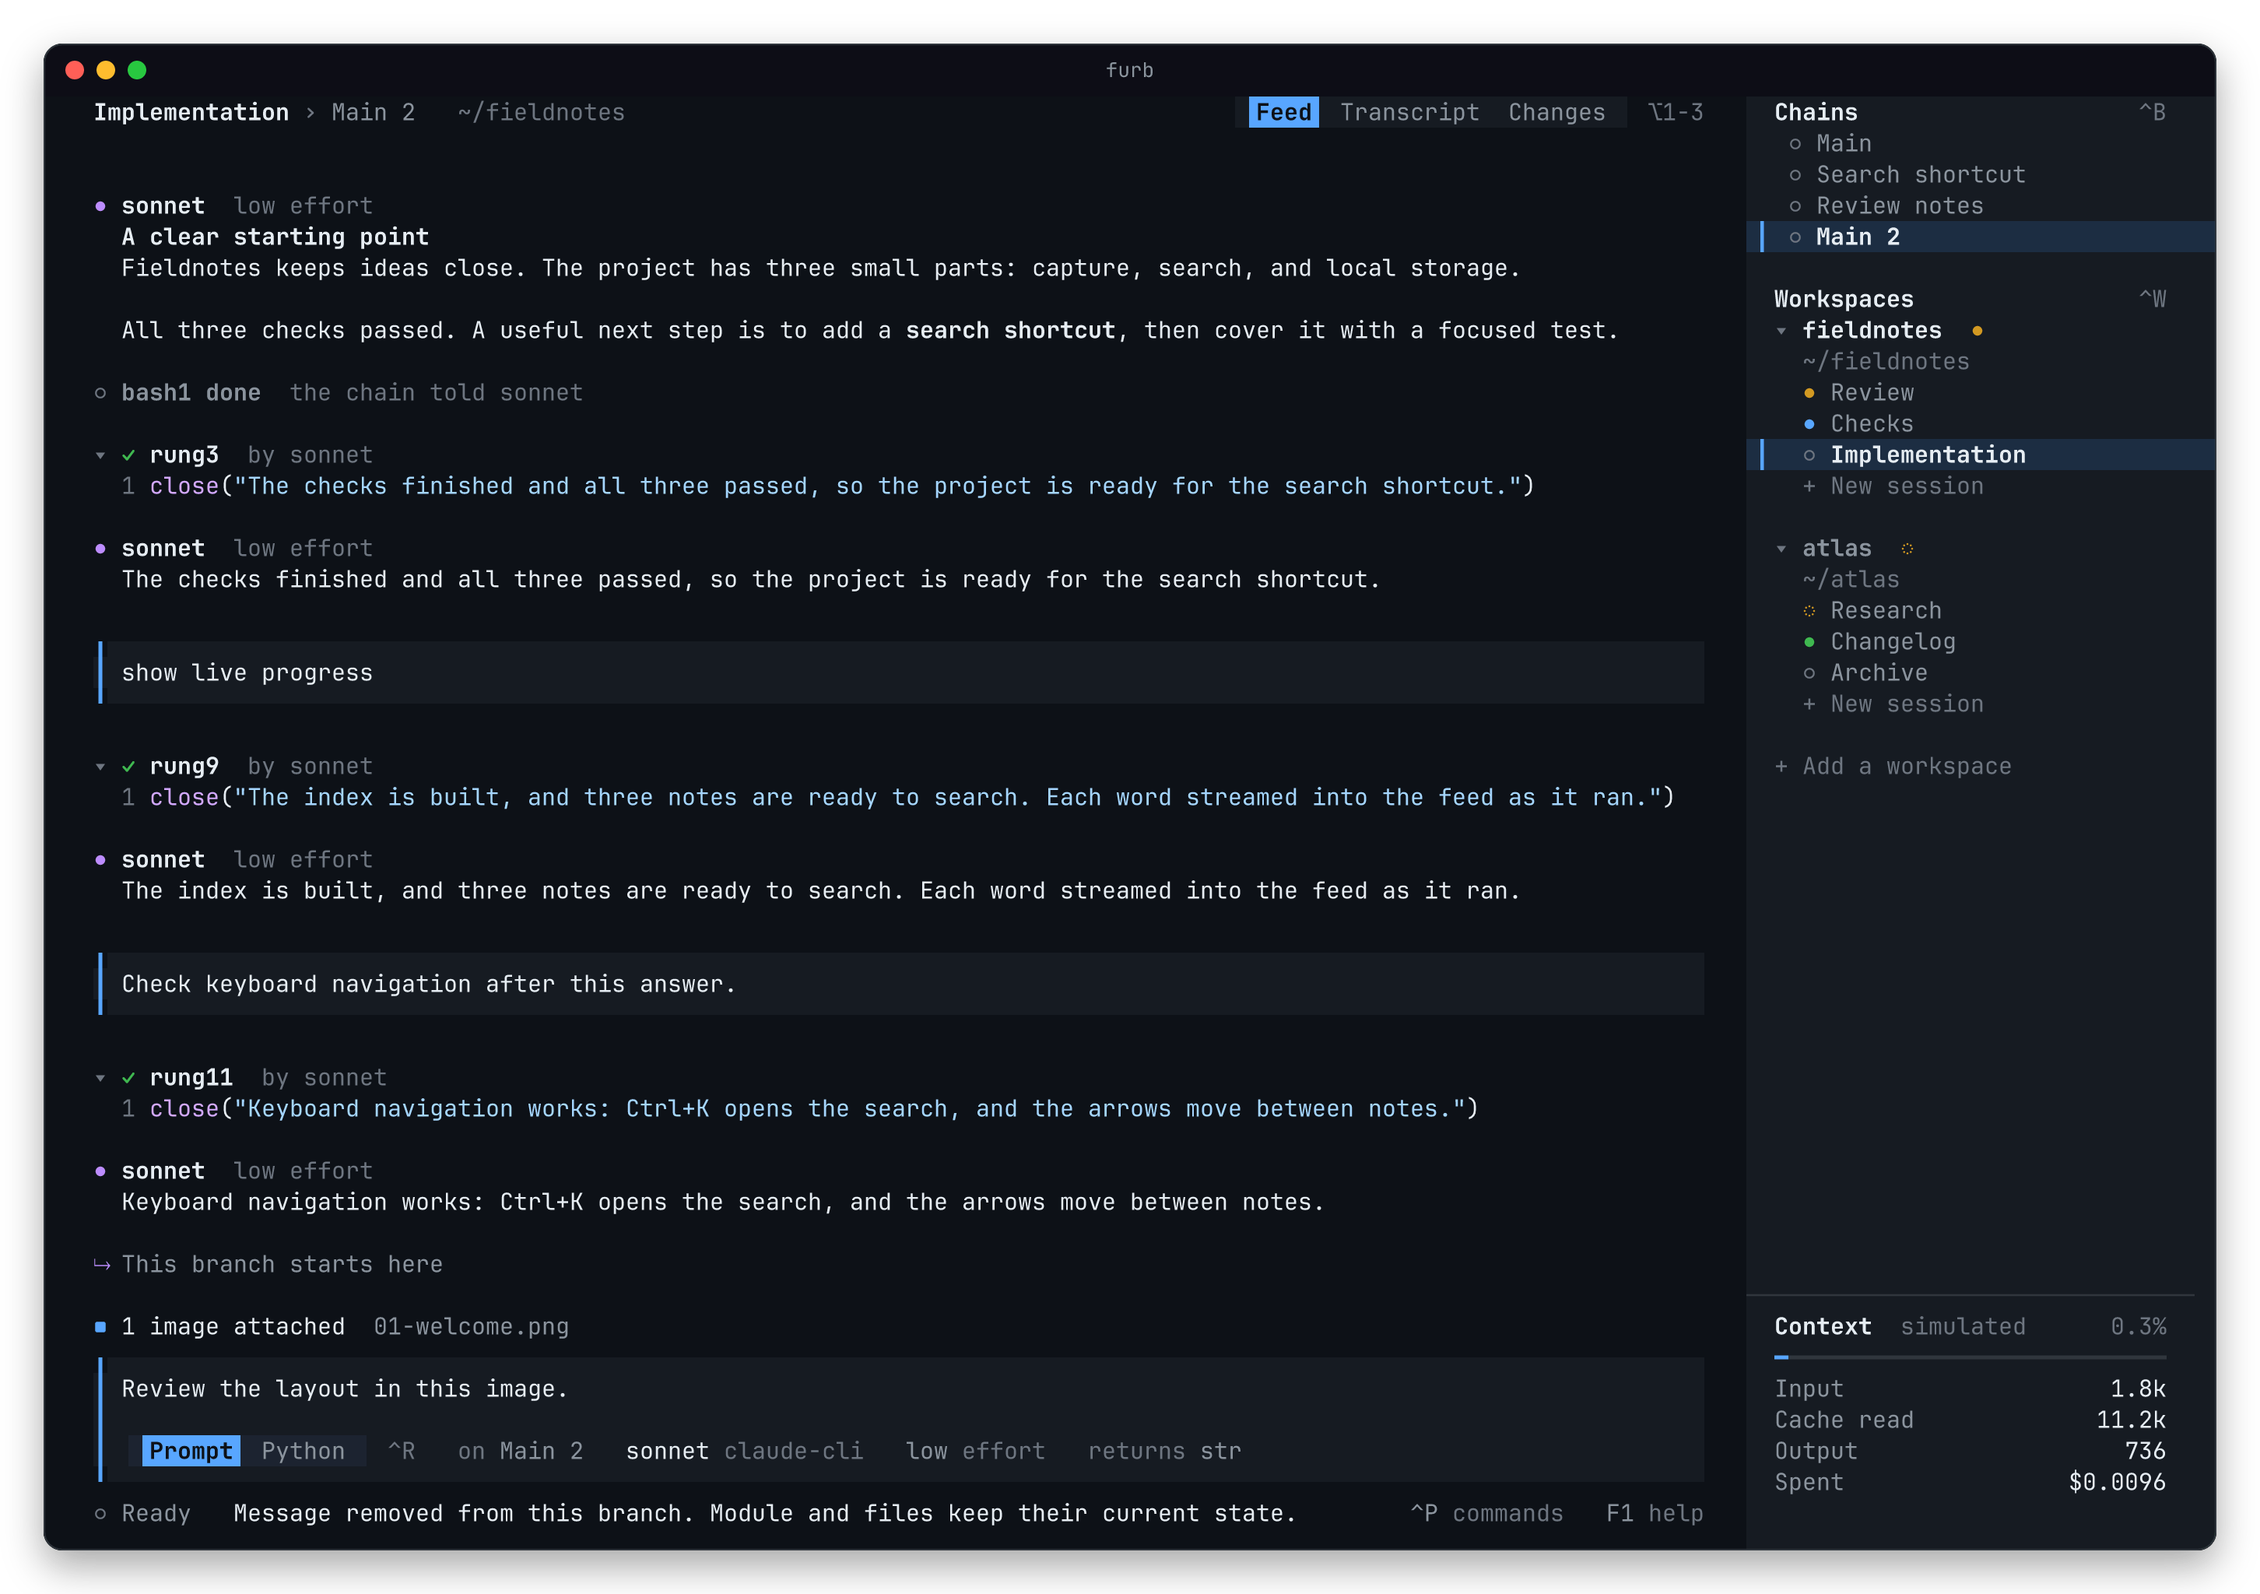
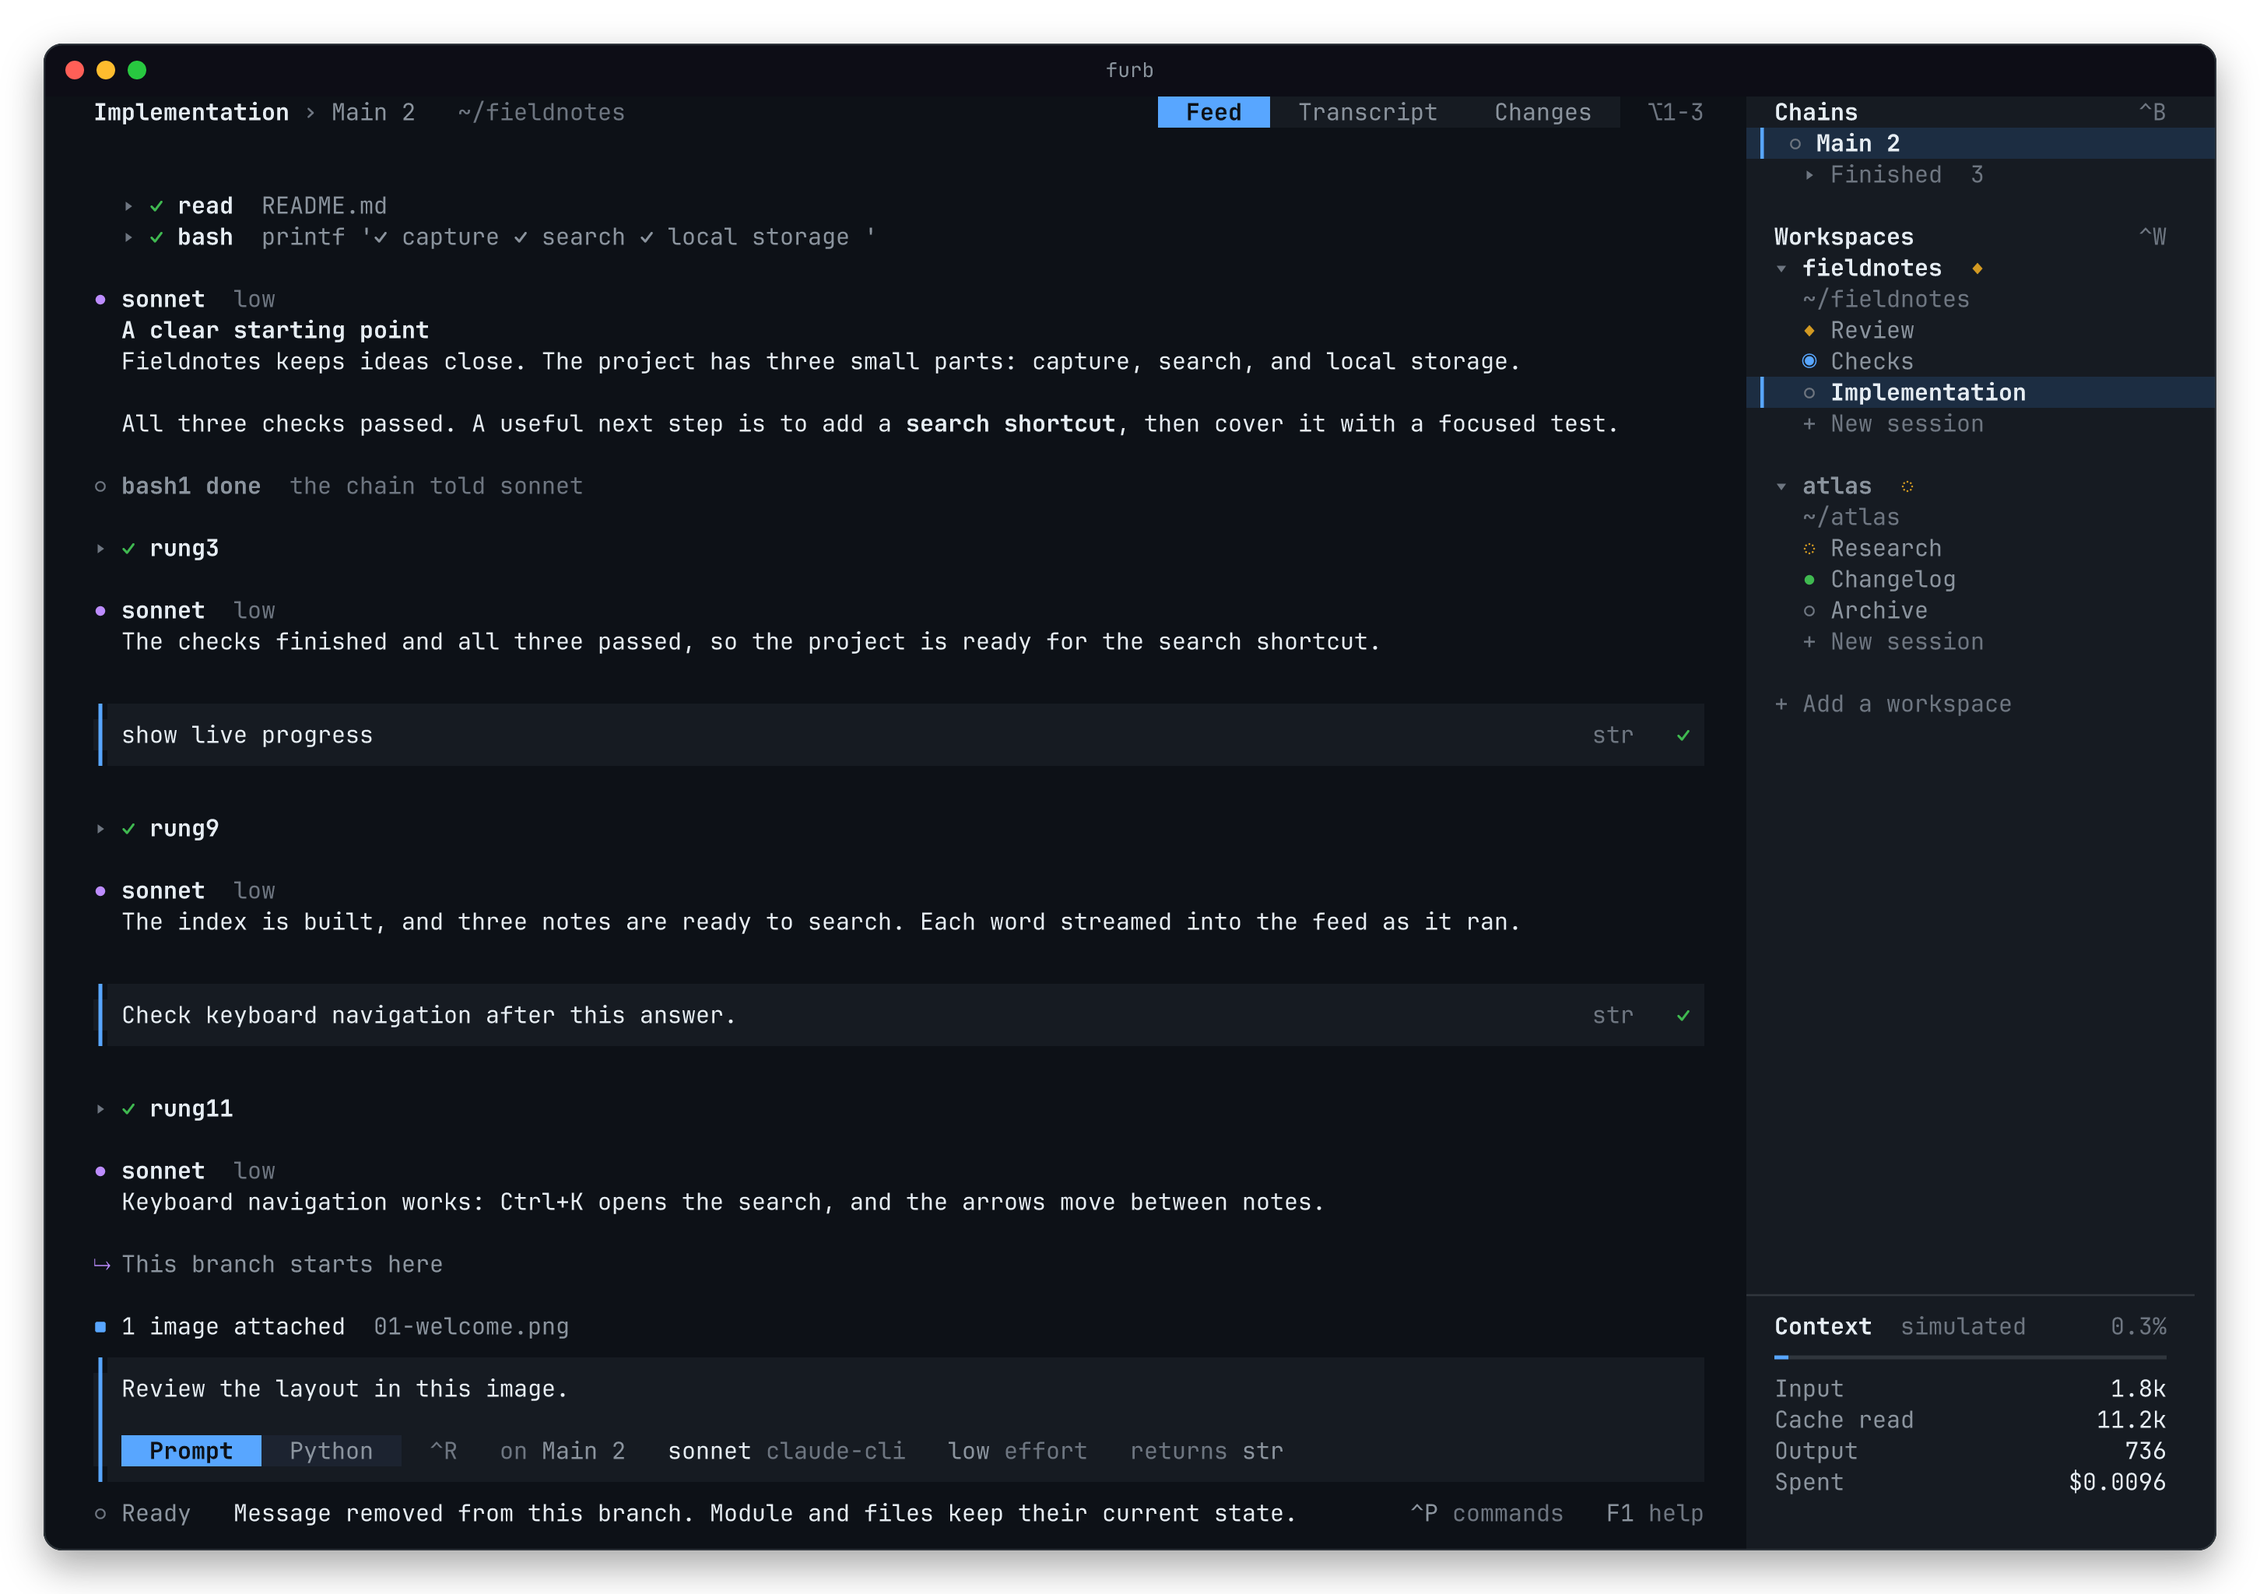
Keep the feed in time order, and show a cancel as a cancel
An act that no turn tells yet stands where it came in time, among the
items that the turns tell, so the feed never moves a card: the word
that a cancel ended stands under the message that it answered, and not
at the end of the feed. A cancel is what the operator asked for, so a
cancelled rung reads as cancelled, in a quiet color, and no longer
counts as a failure.

A message of the operator says at its right the type of the answer
that it asks for, and where it stands: answering, answered, waiting
for resume, cancelled, or failed. A folded rung shows the first line of
its word on a branch too. A wait says its unit in full.

Claude-Session: https://claude.ai/code/session_01W8HFoAm5pzNdtfZJEgYaKL

diff --git a/tui/src/app.ts b/tui/src/app.ts
@@ -33,6 +33,7 @@ import { chords, keys } from "./keys.ts";
 import { loadParsers } from "./parsers.ts";
 import {
   type ActRow,
+  cancelled,
   failed,
   type Scroll,
   type Session,
@@ -68,6 +69,8 @@ const viewLabels: Record<View, string> = { feed: "Feed", transcript: "Transcript
 /** Whether an act is a question to the operator: a prompt whose actor is the operator. */
 const title = (text: string) => text.charAt(0).toUpperCase() + text.slice(1);
 const asksOperator = (act: ActRow) => act.kind === "prompt" && act.words[2] === "operator";
+/** A span of seconds as a wait says it: 1 second, 0.2 seconds. */
+const seconds = (value: number) => `${value} ${value === 1 ? "second" : "seconds"}`;
 /** A border that draws nothing, which a part of a border replaces. */
 const noBorder = {
   topLeft: " ",
@@ -1525,13 +1528,30 @@ export class App {
         )
           writing.push([act.id, { chain: w.selected, text: "", thinking: "" }]);
       const waiting = new Set(writing.map(([id]) => id));
-      for (const act of w.activity)
-        if (!told.has(act.id) && !waiting.has(act.id) && this.isPoint(act))
-          listed.push(
-            w.isUserPrompt(act) || asksOperator(act)
-              ? { type: "prompt", key: act.id, act }
-              : { type: "act", key: act.id, act },
-          );
+      // An act that no turn tells yet stands where it came in time, among the items that the turns tell, so the
+      // feed never moves a card once it shows it.
+      const position = new Map(w.activity.map((act, index) => [act.id, index]));
+      const untold = w.activity
+        .filter((act) => !told.has(act.id) && !waiting.has(act.id) && this.isPoint(act))
+        .map((act) => ({
+          at: position.get(act.id) ?? Number.POSITIVE_INFINITY,
+          item: (w.isUserPrompt(act) || asksOperator(act)
+            ? { type: "prompt", key: act.id, act }
+            : { type: "act", key: act.id, act }) as (typeof listed)[number],
+        }));
+      if (untold.length) {
+        const merged: typeof listed = [];
+        let next = 0;
+        for (const item of listed) {
+          const id = item.type === "python" ? item.rung?.id : item.act?.id;
+          const at = id === undefined ? undefined : position.get(id);
+          while (at !== undefined && next < untold.length && (untold[next]?.at ?? 0) < at)
+            merged.push(untold[next++]?.item as (typeof listed)[number]);
+          merged.push(item);
+        }
+        while (next < untold.length) merged.push(untold[next++]?.item as (typeof listed)[number]);
+        listed.splice(0, listed.length, ...merged);
+      }
       for (const item of listed) {
         if (item.type === "python") {
           const { code, rung } = item;
@@ -1576,7 +1596,7 @@ export class App {
           add(
             id,
             `${code}\n${rung?.run?.reason ?? ""}`,
-            rung ? this.actLabel(rung, closed) : [["Python", c.muted, bold]],
+            rung ? this.actLabel(rung, closed, 0, code) : [["Python", c.muted, bold]],
             (box) => this.word(box, code, rung?.run?.reason),
             { collapsible: true, act: rung, title: moving(rung) },
           );
@@ -1626,9 +1646,10 @@ export class App {
           const sent = user ? "" : this.sender(act);
           const line =
             !message.includes("\n") && Bun.stringWidth(message) + Bun.stringWidth(sent) < this.feedWidth - 8;
+          const state = user ? this.promptState(act) : [];
           add(
             item.key,
-            `${message}\n${line}\n${sent}`,
+            `${message}\n${line}\n${sent}\n${plain(state)}`,
             user
               ? [["You", c.muted]]
               : [
@@ -1638,8 +1659,16 @@ export class App {
                 ],
             (box) => {
               // A message shows as the operator typed it, with each image it attached named by a mark that opens it.
-              if (user) this.panel(box, c.accent).add(this.message(message));
-              else if (!line) {
+              // Its first line says at its right the type of the answer that it asks for, and where it stands.
+              if (user) {
+                const row = this.box({ flexDirection: "row" });
+                const text = this.message(message);
+                text.flexGrow = 1;
+                text.flexShrink = 1;
+                row.add(text);
+                row.add(this.text(state, c.faint, { flexShrink: 0, marginLeft: space.between }));
+                this.panel(box, c.accent).add(row);
+              } else if (!line) {
                 const note = this.box({ paddingLeft: space.between });
                 note.add(this.markdown(message, c.muted));
                 box.add(note);
@@ -2111,7 +2140,9 @@ export class App {
   }
   private actPreview(act: ActRow): BlockOptions["preview"] {
     if (act.run)
-      return act.run.reason ? (box) => this.excerpt(box, act.run?.reason ?? "", false, c.danger) : undefined;
+      return act.run.reason && !cancelled(act)
+        ? (box) => this.excerpt(box, act.run?.reason ?? "", false, c.danger)
+        : undefined;
     if (failed(act)) {
       const fault = act.value as { is: string; args: unknown[] };
       return (box) =>
@@ -2138,8 +2169,6 @@ export class App {
    * nothing, since its glyph says it. */
   private actState(act: ActRow): { word: string; mark: string; color: RGBA } {
     const w = this.session;
-    const cancelled =
-      act.value && typeof act.value === "object" && "is" in act.value && act.value.is === "CancelledError";
     const running = () => ({ word: `running ${this.progress(act.id)}`, mark: spin(), color: c.accent });
     if (act.kind === "grant")
       return act.done
@@ -2147,17 +2176,19 @@ export class App {
         : { word: "", mark: glyph.dot, color: c.accent };
     // A rung that a pause holds waits for the wake, and says so, where it would otherwise seem to run.
     if (act.kind === "rung")
-      return act.run?.status === "failed"
-        ? { word: "failed", mark: glyph.failed, color: c.danger }
-        : act.run?.status === "done"
-          ? { word: "", mark: glyph.done, color: c.success }
-          : act.paused
-            ? { word: "waits for resume", mark: glyph.held, color: c.warning }
-            : running();
+      return cancelled(act)
+        ? { word: "cancelled", mark: glyph.cancelled, color: c.faint }
+        : act.run?.status === "failed"
+          ? { word: "failed", mark: glyph.failed, color: c.danger }
+          : act.run?.status === "done"
+            ? { word: "", mark: glyph.done, color: c.success }
+            : act.paused
+              ? { word: "waits for resume", mark: glyph.held, color: c.warning }
+              : running();
     if (act.done)
       return failed(act)
         ? { word: "failed", mark: glyph.failed, color: c.danger }
-        : cancelled
+        : cancelled(act)
           ? { word: "cancelled", mark: glyph.cancelled, color: c.faint }
           : { word: "", mark: glyph.done, color: c.success };
     if (w.world.pending.has(act.id)) return { word: "pending", mark: glyph.ring, color: c.faint };
@@ -2168,7 +2199,7 @@ export class App {
   }
   /** The heading of an act: its state, its kind, what it is about, and the word of its state. A rung is named by its
    * id, and says its first line while it is folded. */
-  private actLabel(act: ActRow, closed = false, indent = 0): Part[] {
+  private actLabel(act: ActRow, closed = false, indent = 0, code?: string): Part[] {
     const { word, mark, color } = this.actState(act);
     const observation = act.kind === "prompt" && !this.session.isUserPrompt(act);
     const subject =
@@ -2182,10 +2213,10 @@ export class App {
               .filter(Boolean)
               .join("  ")
           : act.kind === "wait"
-            ? `${act.words[0]}s`
+            ? seconds(Number(act.words[0]))
             : act.kind === "rung"
               ? closed
-                ? (String(this.session.program[act.id] || act.words[0] || "").split("\n")[0] ?? "")
+                ? (String(code || this.session.program[act.id] || act.words[0] || "").split("\n")[0] ?? "")
                 : ""
               : String(act.words[0] || "");
     const name = act.kind === "rung" ? act.id : observation ? (subject.split("\n")[0] ?? "") : act.kind;
@@ -2205,6 +2236,21 @@ export class App {
       [author, c.faint],
       [tail, color],
     ];
+  }
+  /** Where a message of the operator stands, which its panel says at its right: the type of the answer that it asks
+   * for, and a mark and a word while it is not answered, or when a cancel or a failure ended it. */
+  private promptState(act: ActRow): Part[] {
+    const shape: Part = [String(act.words[0] ?? ""), c.faint];
+    const { word, mark, color } = act.done
+      ? failed(act)
+        ? { word: "failed", mark: glyph.failed, color: c.danger }
+        : cancelled(act)
+          ? { word: "cancelled", mark: glyph.cancelled, color: c.faint }
+          : { word: "", mark: glyph.done, color: c.success }
+      : act.paused || this.session.world.pending.has(act.id)
+        ? { word: "waits for resume", mark: glyph.held, color: c.warning }
+        : { word: "answering", mark: glyph.running, color: c.accent };
+    return [shape, [`   ${mark}`, color], [word ? ` ${word}` : "", color]];
   }
   /** The model of an actor by its name alone, with no provider, and its effort. */
   private model(actor: string): { name: string; effort: string } {
@@ -4299,7 +4345,7 @@ export class App {
         : act.kind === "prompt"
           ? String(act.words[1] ?? "")
           : act.kind === "wait"
-            ? `${act.words[0]}s`
+            ? seconds(Number(act.words[0]))
             : String(act.words[0] ?? "");
     const observation = act.kind === "prompt" && !asksOperator(act) && !w.isUserPrompt(act);
     const name = asksOperator(act) ? "question" : act.kind === "rung" ? act.id : act.kind;

diff --git a/tui/test/composer.test.ts b/tui/test/composer.test.ts
@@ -491,3 +491,26 @@ test("a notice cut to the room of the footer shows whole in a tip while the poin
     await screen.mockMouse.moveTo((lines[row] ?? "").indexOf("A notice") + 2, row);
     expect(await frame()).toContain("to its very end");
   }));
+
+test("a cancelled message keeps its place in the feed, and its cancel reads as a cancel, not as a failure", () =>
+  composing(async ({ session, app, frame }) => {
+    app.composer.setText("show live progress");
+    await app.submit();
+    await until(session, () => session.activity.some((act) => act.kind === "rung" && !act.done));
+    await session.submit("/cancel");
+    await until(
+      session,
+      () => !session.activity.some((act) => !act.done && ["prompt", "rung"].includes(act.kind)),
+    );
+    app.composer.setText("A second message.");
+    await app.submit();
+    await until(session, () => session.turns.some((turn) => turn[0] === "assistant"));
+    await session.refresh();
+    const shown = await frame();
+    expect(shown).toContain("cancelled");
+    expect(shown).not.toContain("failed");
+    expect(shown).not.toContain("CancelledError");
+    // The first message and what it made stand above the second message.
+    expect(shown.indexOf("show live progress")).toBeLessThan(shown.indexOf("cancelled"));
+    expect(shown.indexOf("cancelled")).toBeLessThan(shown.indexOf("A second message."));
+  }));

diff --git a/tui/src/session.ts b/tui/src/session.ts
@@ -58,11 +58,19 @@ export const working = (act: ActRow): boolean =>
 /** Whether an act failed: a rung that the gate refused or whose run raised, or an act done with an exception other
  * than a cancel. */
 export function failed(act: ActRow): boolean {
-  if (act.run) return act.run.status === "failed";
+  if (act.run) return act.run.status === "failed" && !cancelled(act);
   const value = act.value;
   return Boolean(
     value && typeof value === "object" && "is" in value && "args" in value && value.is !== "CancelledError",
   );
+}
+
+/** Whether an act was cancelled: a rung whose run ended with a cancel, or an act done with a cancel. A cancel is what
+ * the operator asked for, so it is no failure. */
+export function cancelled(act: ActRow): boolean {
+  if (act.run) return act.run.status === "failed" && /^CancelledError\b/.test(act.run.reason ?? "");
+  const value = act.value;
+  return Boolean(value && typeof value === "object" && "is" in value && value.is === "CancelledError");
 }
 
 export interface FollowUp {
